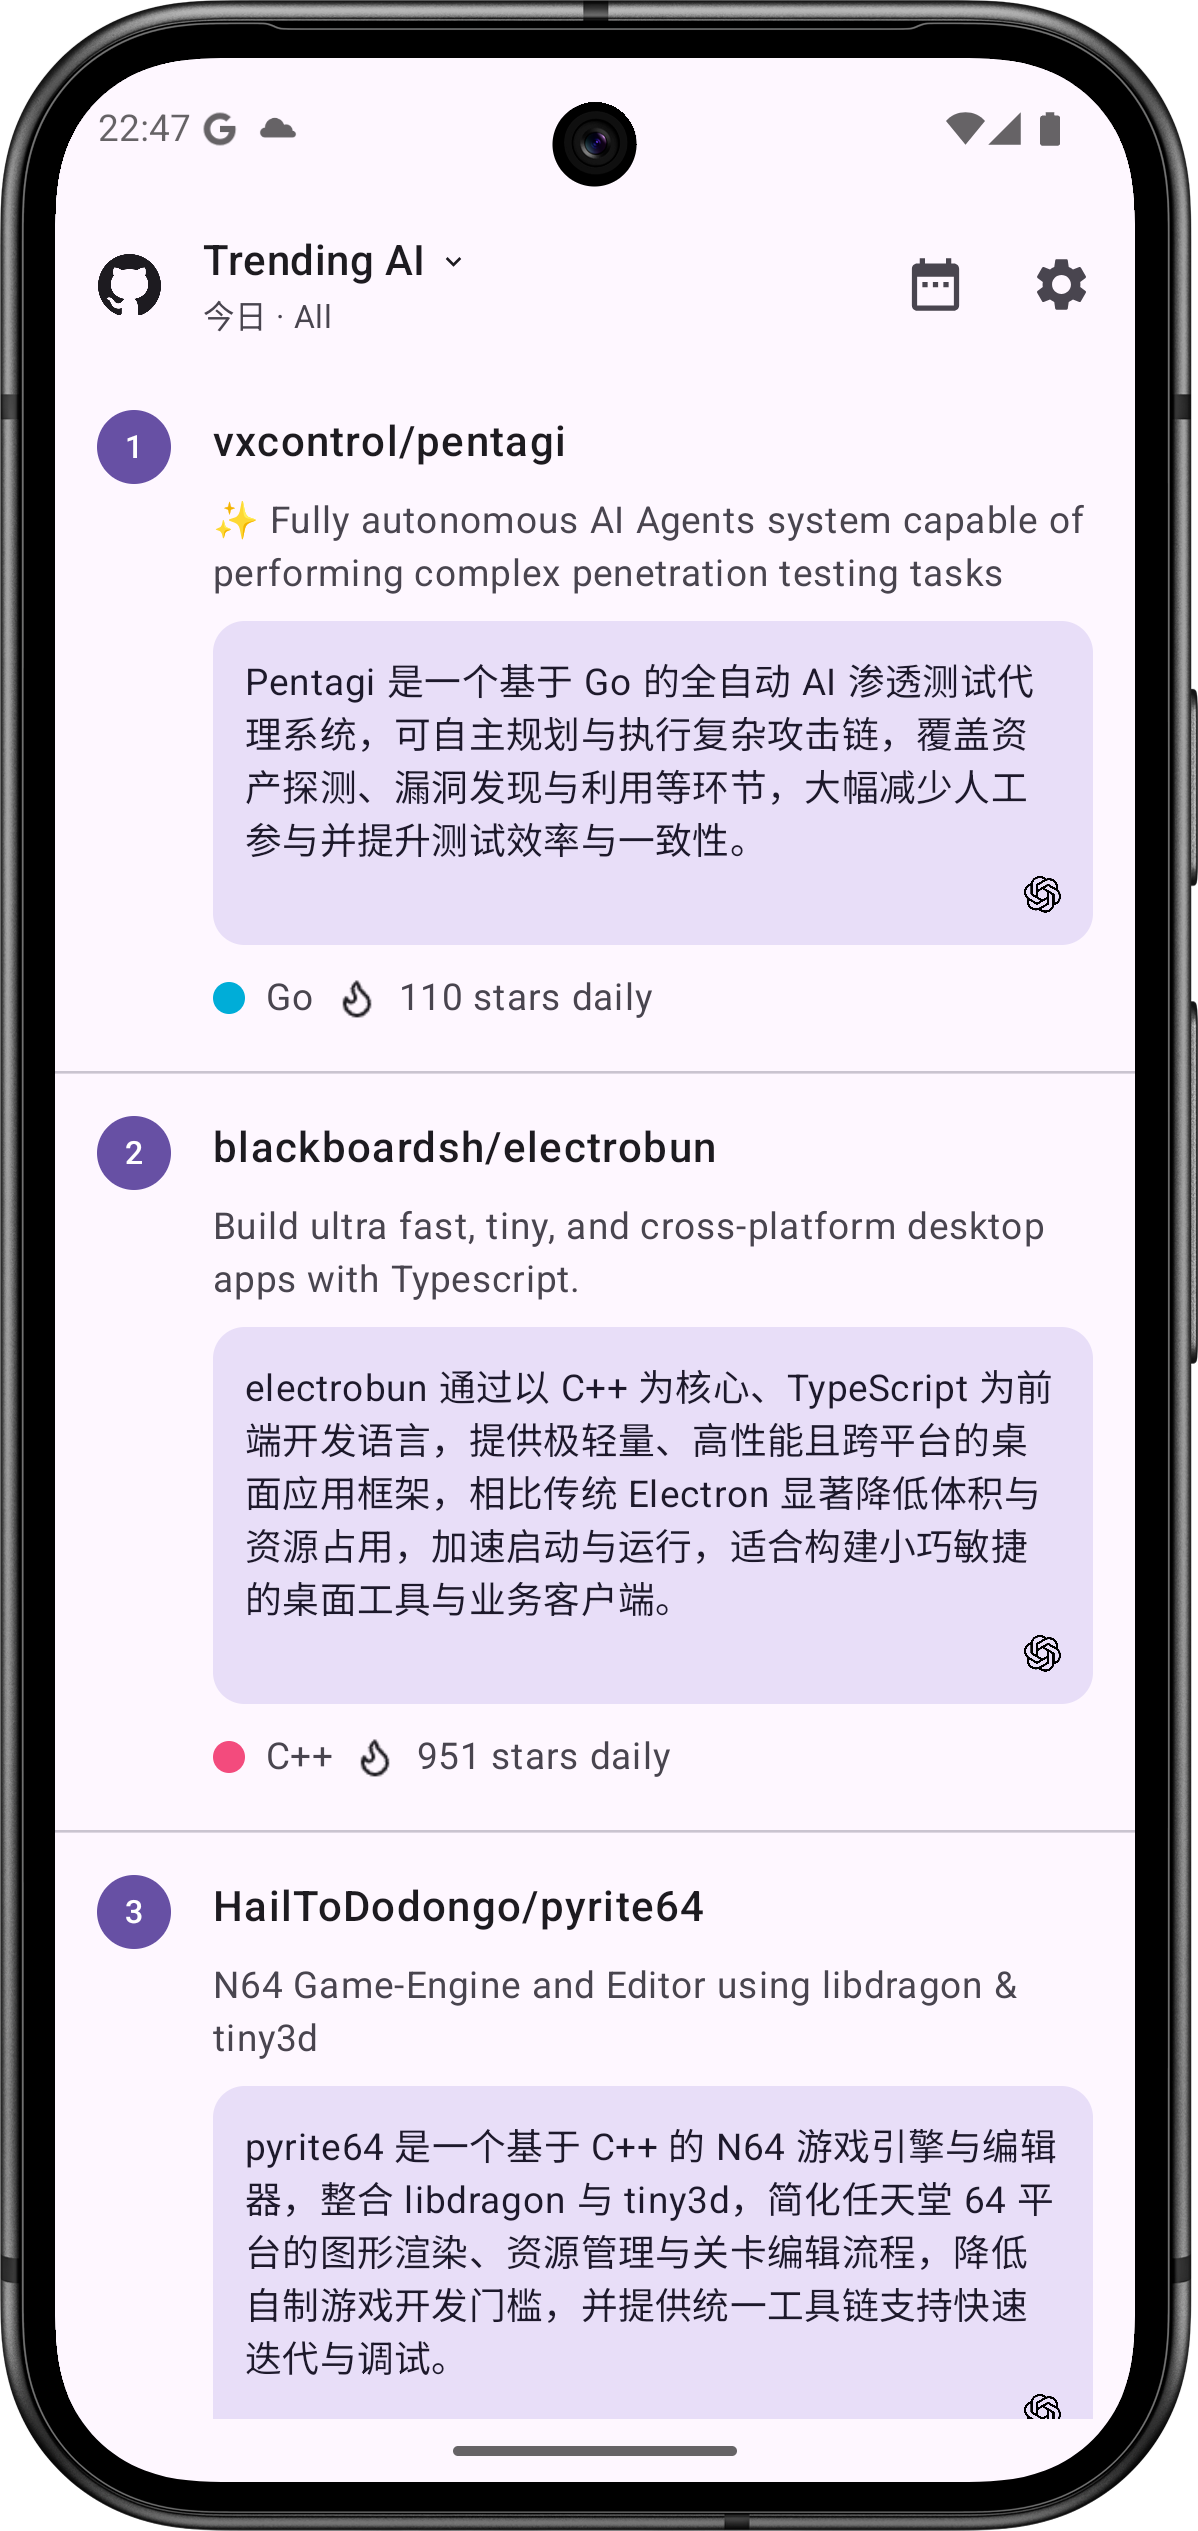
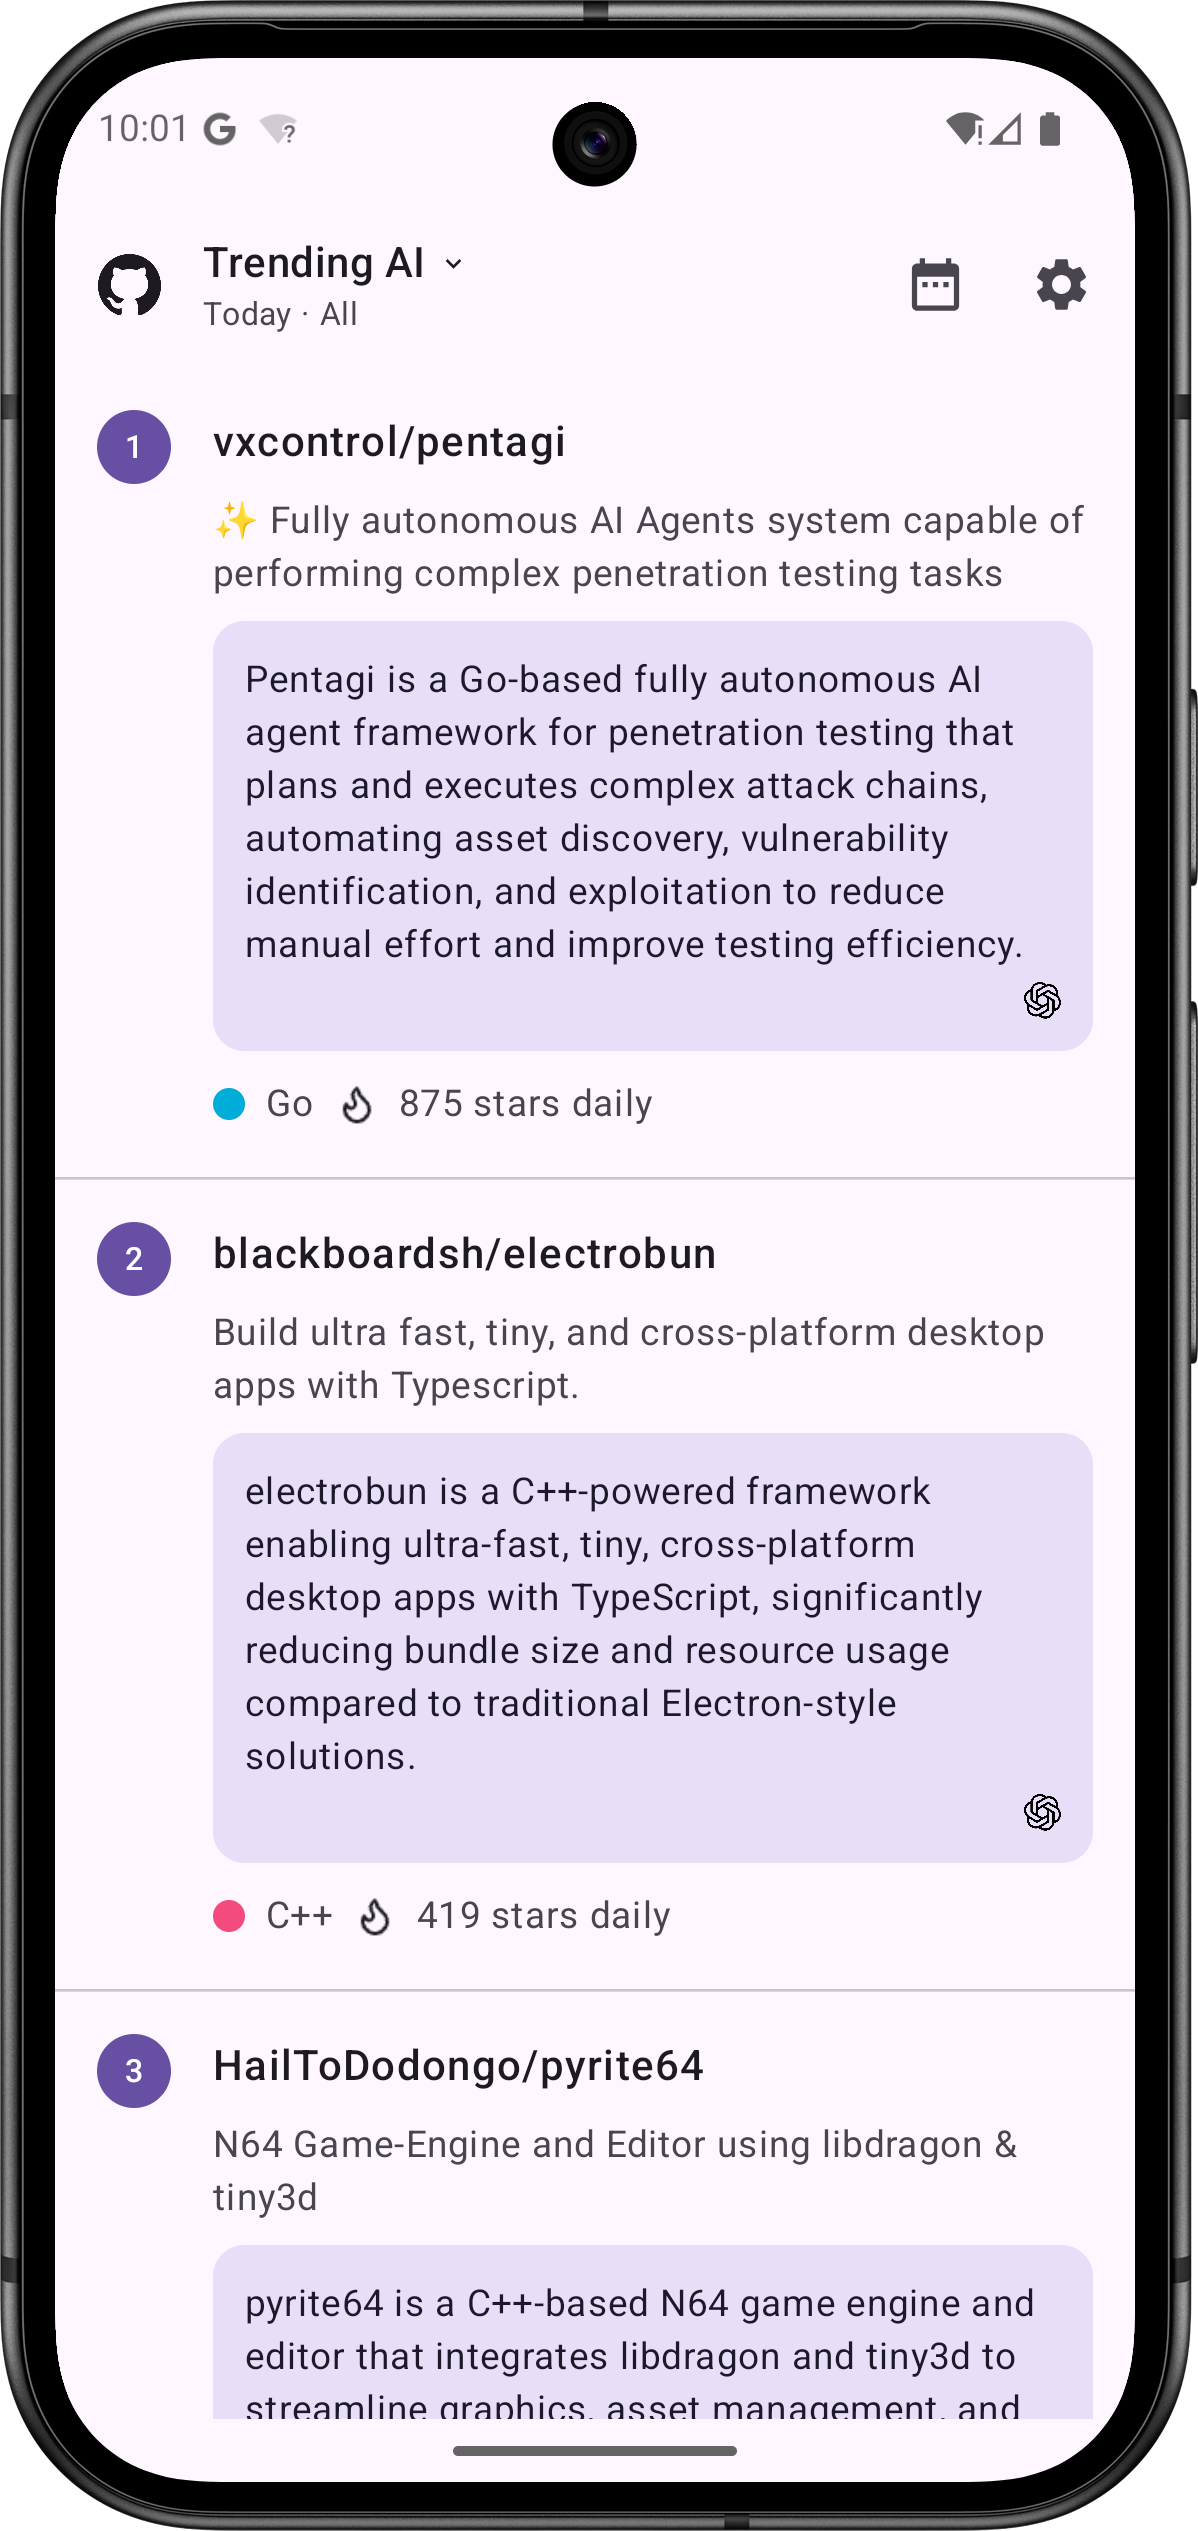
docs: 更新中文预览图并调整截图资源

diff --git a/README_ZH.md b/README_ZH.md
@@ -10,7 +10,7 @@
 
 ## 📸 界面预览
 
-<img src="assets/android_screenshot.png" width="300">
+<img src="assets/android_screenshot_zh.png" width="300">
 
 ---
 
